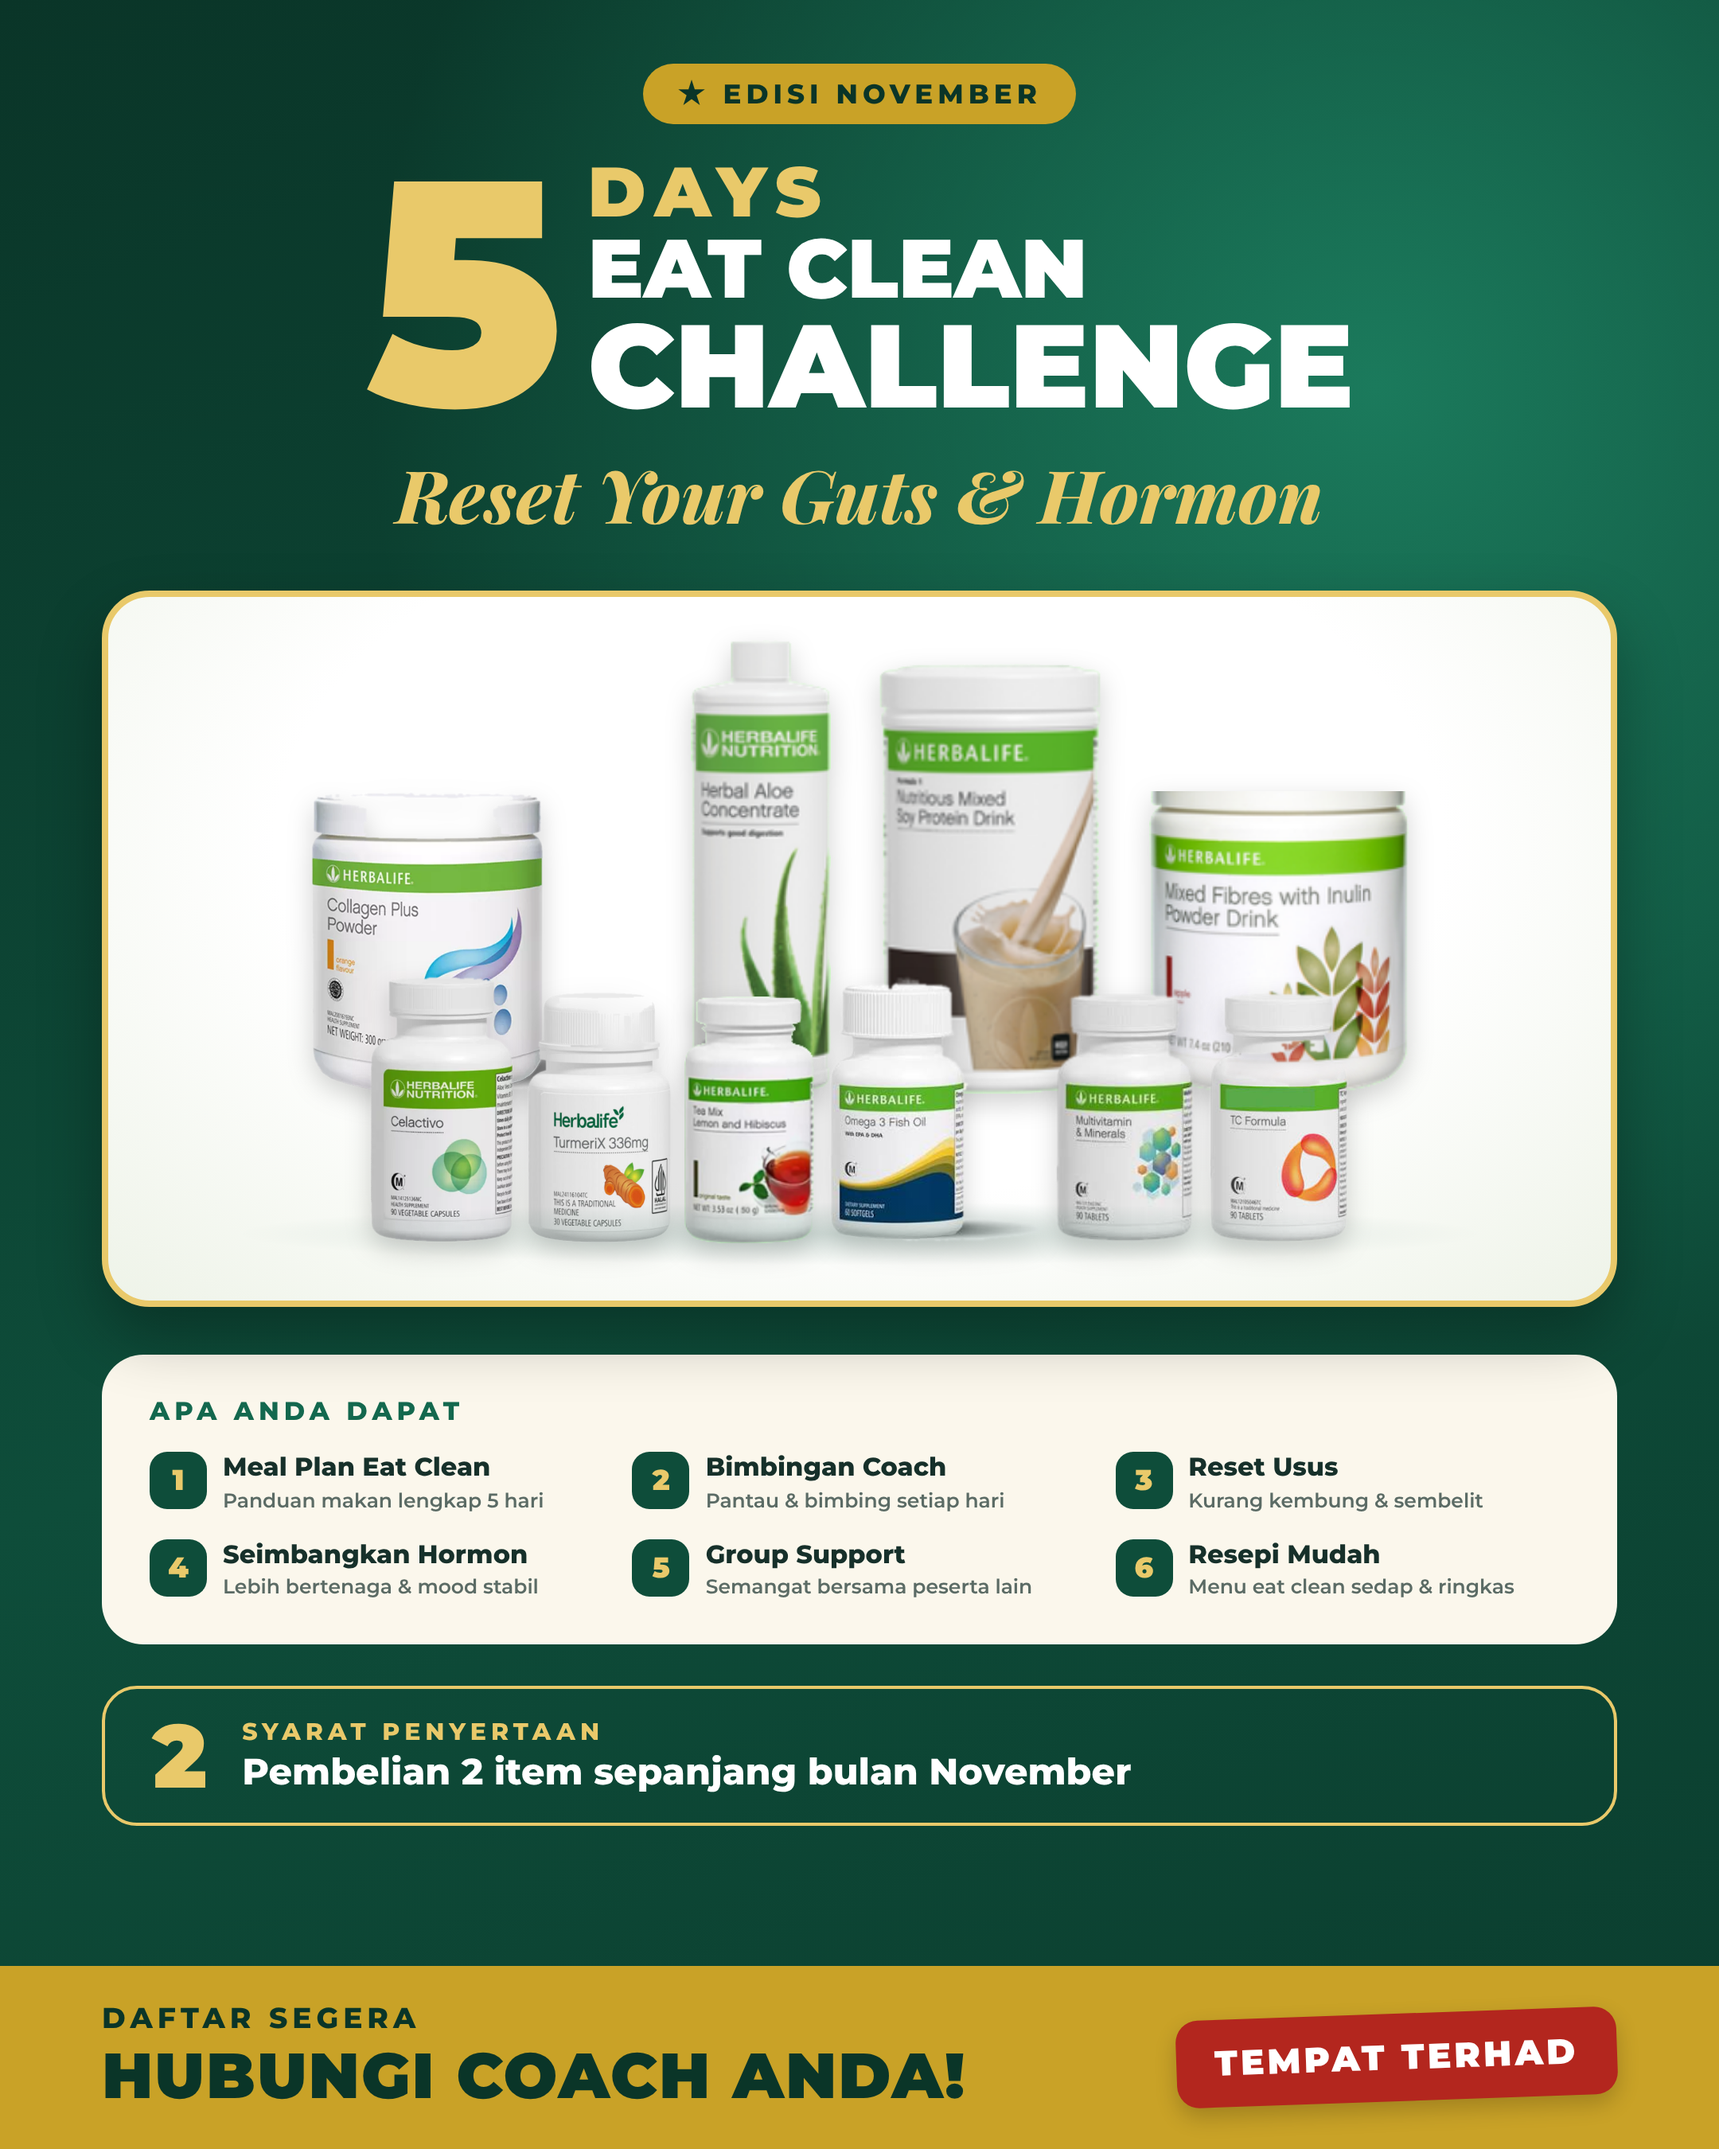
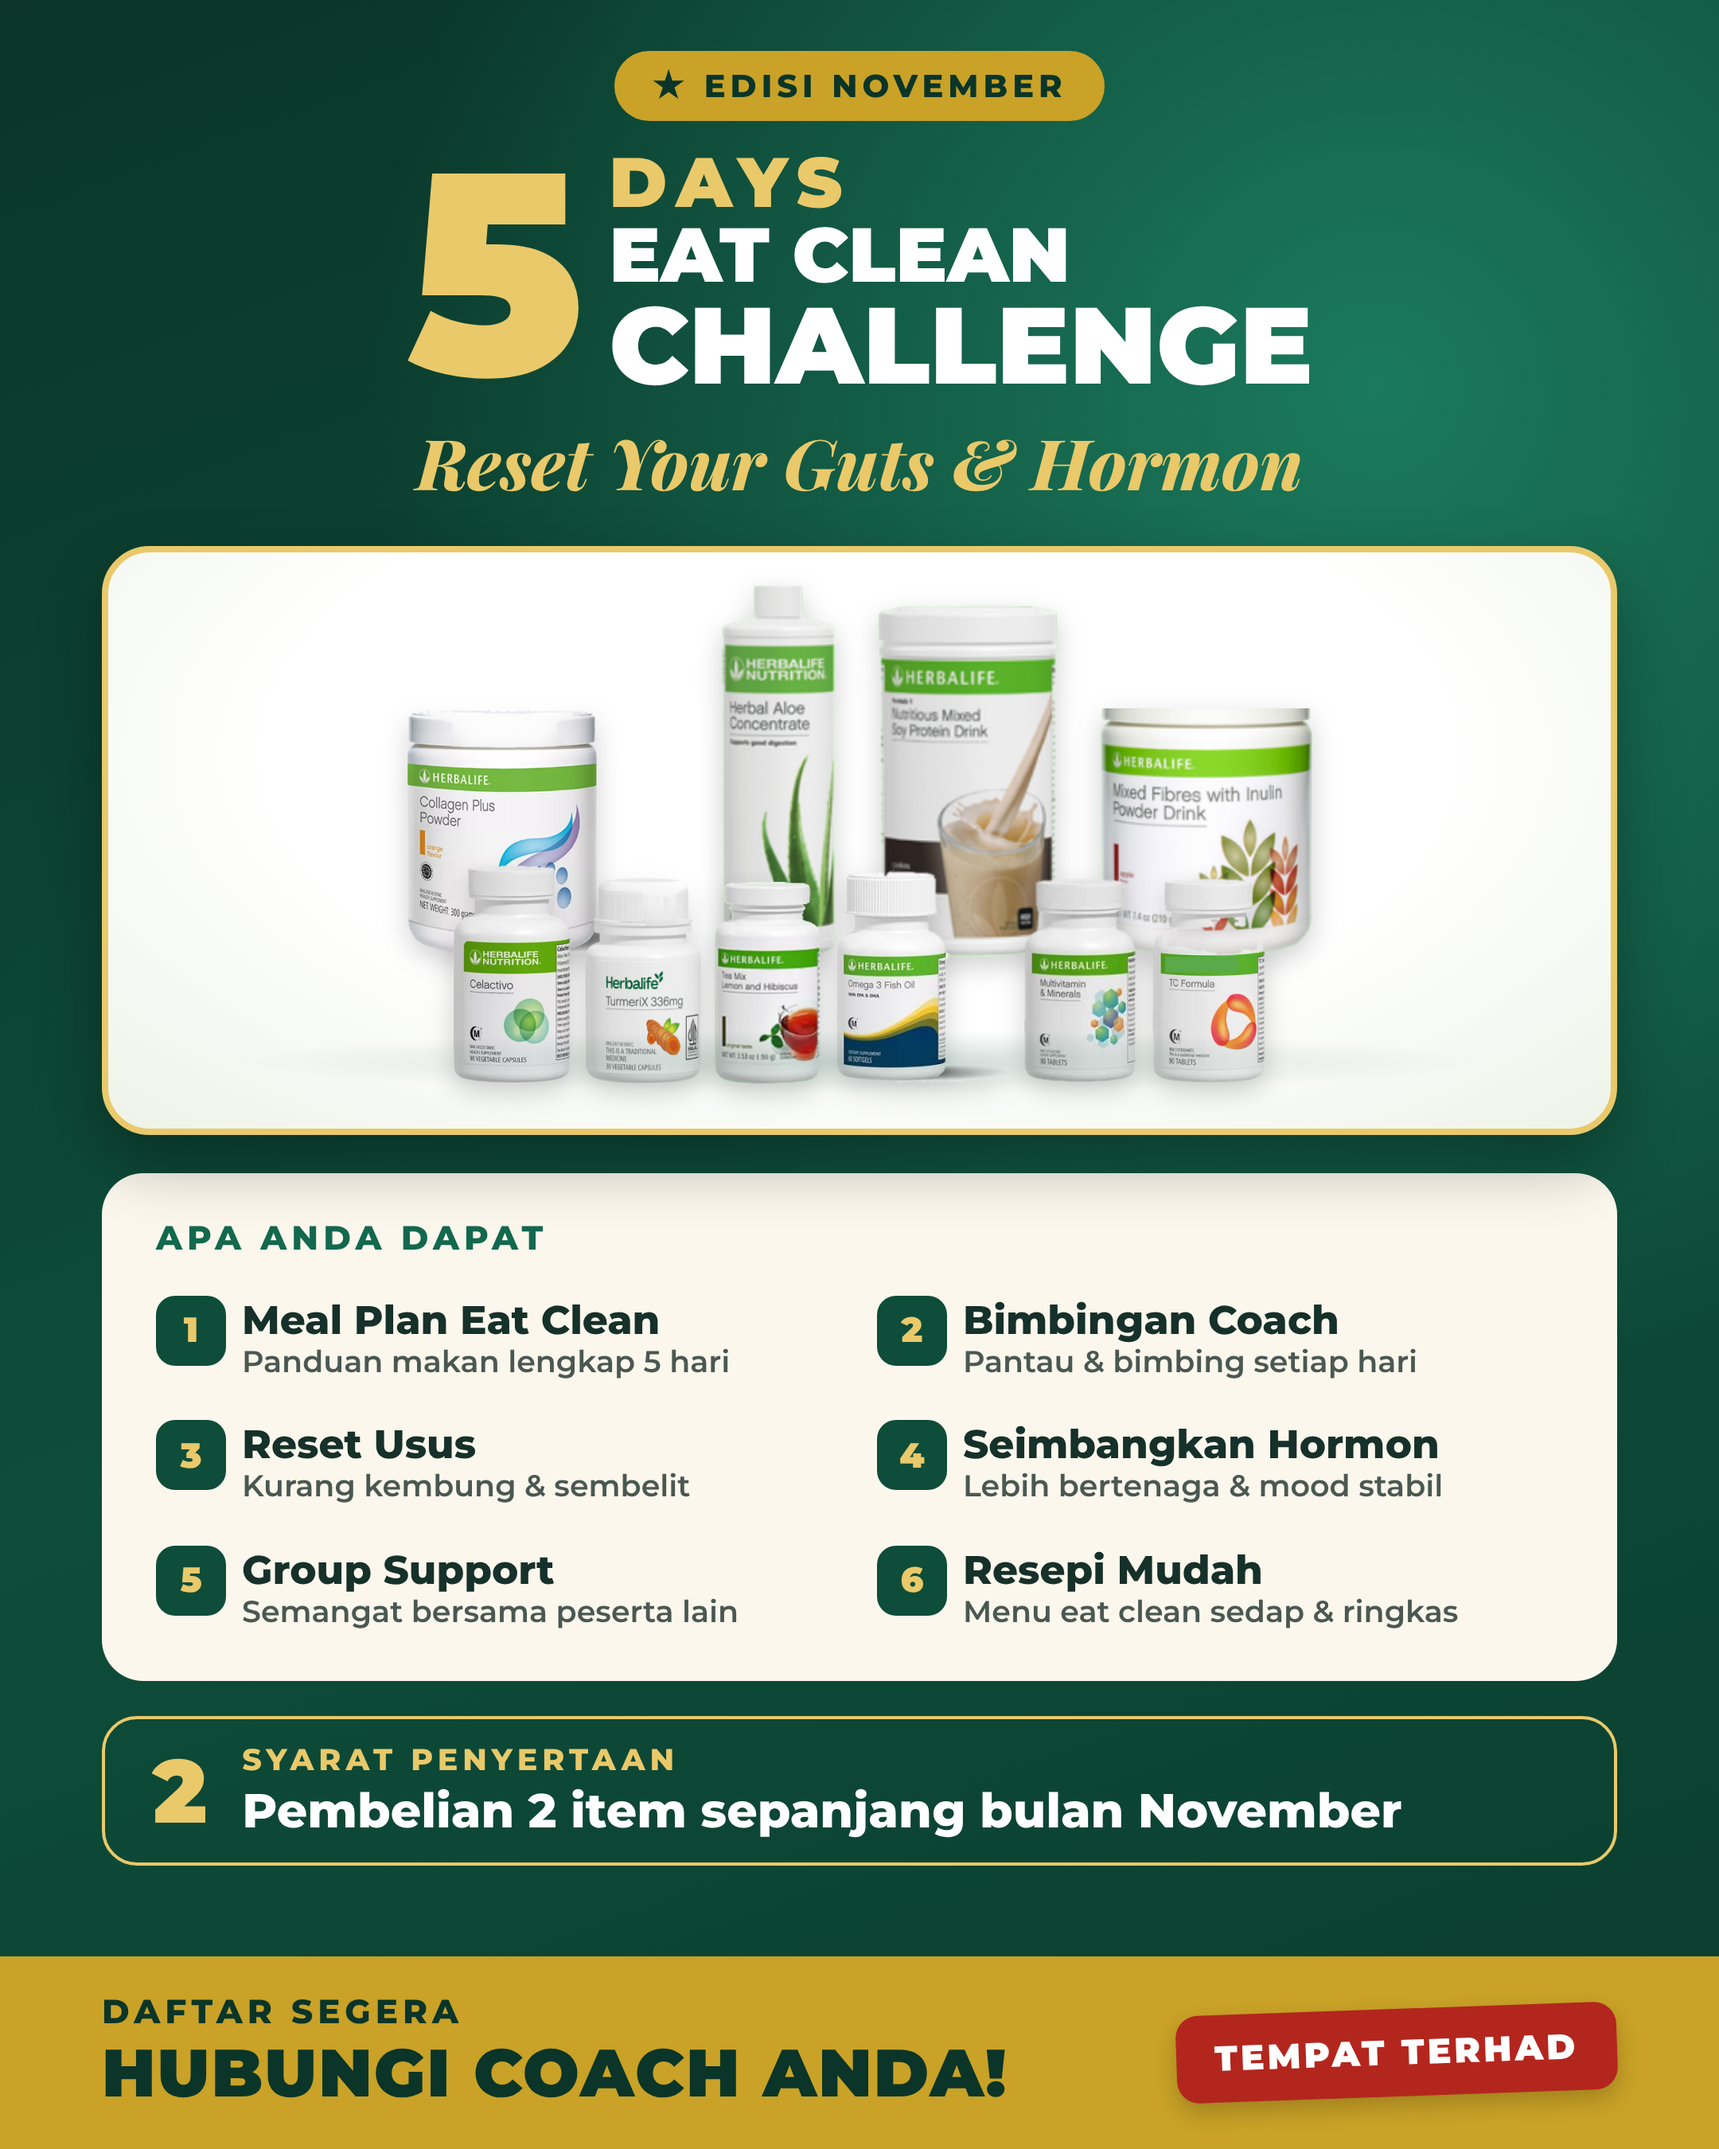
Eat Clean flyer: larger text for readability
Claude-Session: https://claude.ai/code/session_01L26z2pMzNkChAWFaCWZq1L

Changed region(s): [[0.062, 0.0, 0.9616, 0.8711], [0.0, 0.9022, 1.0, 0.9956], [0.8995, 0.84, 0.9306, 0.8711]]

diff --git a/eatclean/flyer.html b/eatclean/flyer.html
@@ -5,34 +5,34 @@
 *{box-sizing:border-box;margin:0;padding:0}
 body{width:1080px;height:1350px;font-family:Montserrat,sans-serif;color:#fff;overflow:hidden;
 background:radial-gradient(circle at 80% 18%,#1B7A5C 0%,transparent 45%),linear-gradient(160deg,#0A3528 0%,#0E4D3A 55%,#0B3D2E 100%);position:relative}
-.head{padding:40px 64px 0;text-align:center}
-.badge{display:inline-flex;background:var(--gold);color:#0A3528;font-weight:800;letter-spacing:3px;font-size:17px;padding:9px 22px;border-radius:40px}
-.hero{display:flex;align-items:center;justify-content:center;gap:22px;margin-top:20px}
-.n{font-size:200px;font-weight:900;line-height:.8;color:var(--gold2);letter-spacing:-6px}
+.head{padding:32px 64px 0;text-align:center}
+.badge{display:inline-flex;background:var(--gold);color:#0A3528;font-weight:800;letter-spacing:3px;font-size:20px;padding:10px 24px;border-radius:40px}
+.hero{display:flex;align-items:center;justify-content:center;gap:22px;margin-top:16px}
+.n{font-size:180px;font-weight:900;line-height:.8;color:var(--gold2);letter-spacing:-6px}
 .stack{text-align:left}
 .stack .d{font-size:44px;font-weight:900;color:var(--gold2);letter-spacing:6px;line-height:1}
-.stack .e{font-size:52px;font-weight:900;line-height:1.02}
-.stack .c{font-size:74px;font-weight:900;line-height:.95}
-.script{font-family:'Playfair Display',serif;font-style:italic;font-weight:800;color:var(--gold2);font-size:46px;margin-top:14px}
-.stage{margin:30px 64px 0;height:450px;background:radial-gradient(ellipse at 50% 35%,#FFFFFF 0%,#FFFFFF 55%,#EEF3E8 100%);border-radius:30px;position:relative;overflow:hidden;box-shadow:0 18px 40px rgba(0,0,0,.3);border:4px solid var(--gold2)}
+.stack .e{font-size:48px;font-weight:900;line-height:1.02}
+.stack .c{font-size:68px;font-weight:900;line-height:.95}
+.script{font-family:'Playfair Display',serif;font-style:italic;font-weight:800;color:var(--gold2);font-size:44px;margin-top:10px}
+.stage{margin:24px 64px 0;height:370px;background:radial-gradient(ellipse at 50% 35%,#FFFFFF 0%,#FFFFFF 55%,#EEF3E8 100%);border-radius:30px;position:relative;overflow:hidden;box-shadow:0 18px 40px rgba(0,0,0,.3);border:4px solid var(--gold2)}
 .stage:after{content:"";position:absolute;left:8%;right:8%;bottom:22px;height:40px;border-radius:50%;background:radial-gradient(ellipse,rgba(14,77,58,.18),transparent 70%)}
 .r{position:absolute;left:0;right:0;display:flex;justify-content:center;align-items:flex-end}
 .r img{object-fit:contain;filter:drop-shadow(0 6px 8px rgba(0,0,0,.18))}
-.back{bottom:130px;gap:30px}
-.front{bottom:36px;gap:8px}
-.card{margin:30px 64px 0;background:var(--cream);color:var(--ink);border-radius:26px;padding:26px 30px 28px;display:grid;grid-template-columns:1fr 1fr 1fr;gap:16px 18px}
-.card h3{grid-column:1/-1;font-size:16px;letter-spacing:3px;color:var(--em2);font-weight:800}
+.back{bottom:108px;gap:26px}
+.front{bottom:28px;gap:8px}
+.card{margin:24px 64px 0;background:var(--cream);color:var(--ink);border-radius:26px;padding:28px 34px 30px;display:grid;grid-template-columns:1fr 1fr;gap:24px 22px}
+.card h3{grid-column:1/-1;font-size:21px;letter-spacing:3px;color:var(--em2);font-weight:800}
 .it{display:flex;gap:10px;align-items:flex-start}
-.ic{flex:none;width:36px;height:36px;border-radius:11px;background:var(--em);color:var(--gold2);display:flex;align-items:center;justify-content:center;font-size:18px;font-weight:900}
-.it b{display:block;font-size:16px;font-weight:800;line-height:1.2}
-.it small{font-size:12.5px;font-weight:600;color:#5B6B65;line-height:1.3}
-.cond{margin:26px 64px 0;border:2px solid var(--gold2);border-radius:22px;padding:14px 30px;display:flex;align-items:center;gap:22px}
+.ic{flex:none;width:44px;height:44px;border-radius:12px;background:var(--em);color:var(--gold2);display:flex;align-items:center;justify-content:center;font-size:22px;font-weight:900}
+.it b{display:block;font-size:25px;font-weight:800;line-height:1.2}
+.it small{font-size:19px;font-weight:600;color:#4A5852;line-height:1.3}
+.cond{margin:22px 64px 0;border:2px solid var(--gold2);border-radius:22px;padding:14px 30px;display:flex;align-items:center;gap:22px}
 .cond .big{font-size:56px;font-weight:900;color:var(--gold2);line-height:1}
-.cond .t{font-size:15px;letter-spacing:3px;color:var(--gold2);font-weight:800}
-.cond .dd{font-size:23px;font-weight:800;line-height:1.2;margin-top:3px}
+.cond .t{font-size:19px;letter-spacing:3px;color:var(--gold2);font-weight:800}
+.cond .dd{font-size:30px;font-weight:800;line-height:1.2;margin-top:3px}
 .cta{position:absolute;left:0;right:0;bottom:0;background:var(--gold);color:#0A3528;padding:22px 64px;display:flex;align-items:center;justify-content:space-between}
-.cta .s{font-size:18px;font-weight:800;letter-spacing:3px}
-.cta .a{font-size:40px;font-weight:900;letter-spacing:1px}
+.cta .s{font-size:21px;font-weight:800;letter-spacing:3px}
+.cta .a{font-size:42px;font-weight:900;letter-spacing:1px}
 .cta .b{background:var(--red);color:#fff;font-weight:900;font-size:22px;letter-spacing:2px;padding:14px 24px;border-radius:14px;transform:rotate(-2deg);box-shadow:0 6px 14px rgba(0,0,0,.2)}
 </style></head><body>
 <div class="head">
@@ -42,18 +42,18 @@ background:radial-gradient(circle at 80% 18%,#1B7A5C 0%,transparent 45%),linear-
 </div>
 <div class="stage">
   <div class="r back">
-    <img src="img/collagen.png" style="height:190px">
-    <img src="img/aloe.png" style="height:285px">
-    <img src="img/f1.png" style="height:270px">
-    <img src="img/fibre.png" style="height:190px">
+    <img src="img/collagen.png" style="height:156px">
+    <img src="img/aloe.png" style="height:234px">
+    <img src="img/f1.png" style="height:221px">
+    <img src="img/fibre.png" style="height:156px">
   </div>
   <div class="r front">
-    <img src="img/celactivo.png" style="height:168px">
-    <img src="img/turmerix.png" style="height:158px">
-    <img src="img/tea.png" style="height:155px">
-    <img src="img/omega.png" style="height:165px">
-    <img src="img/multi.png" style="height:158px">
-    <img src="img/tc.png" style="height:158px">
+    <img src="img/celactivo.png" style="height:138px">
+    <img src="img/turmerix.png" style="height:130px">
+    <img src="img/tea.png" style="height:127px">
+    <img src="img/omega.png" style="height:135px">
+    <img src="img/multi.png" style="height:130px">
+    <img src="img/tc.png" style="height:130px">
   </div>
 </div>
 <div class="card">
